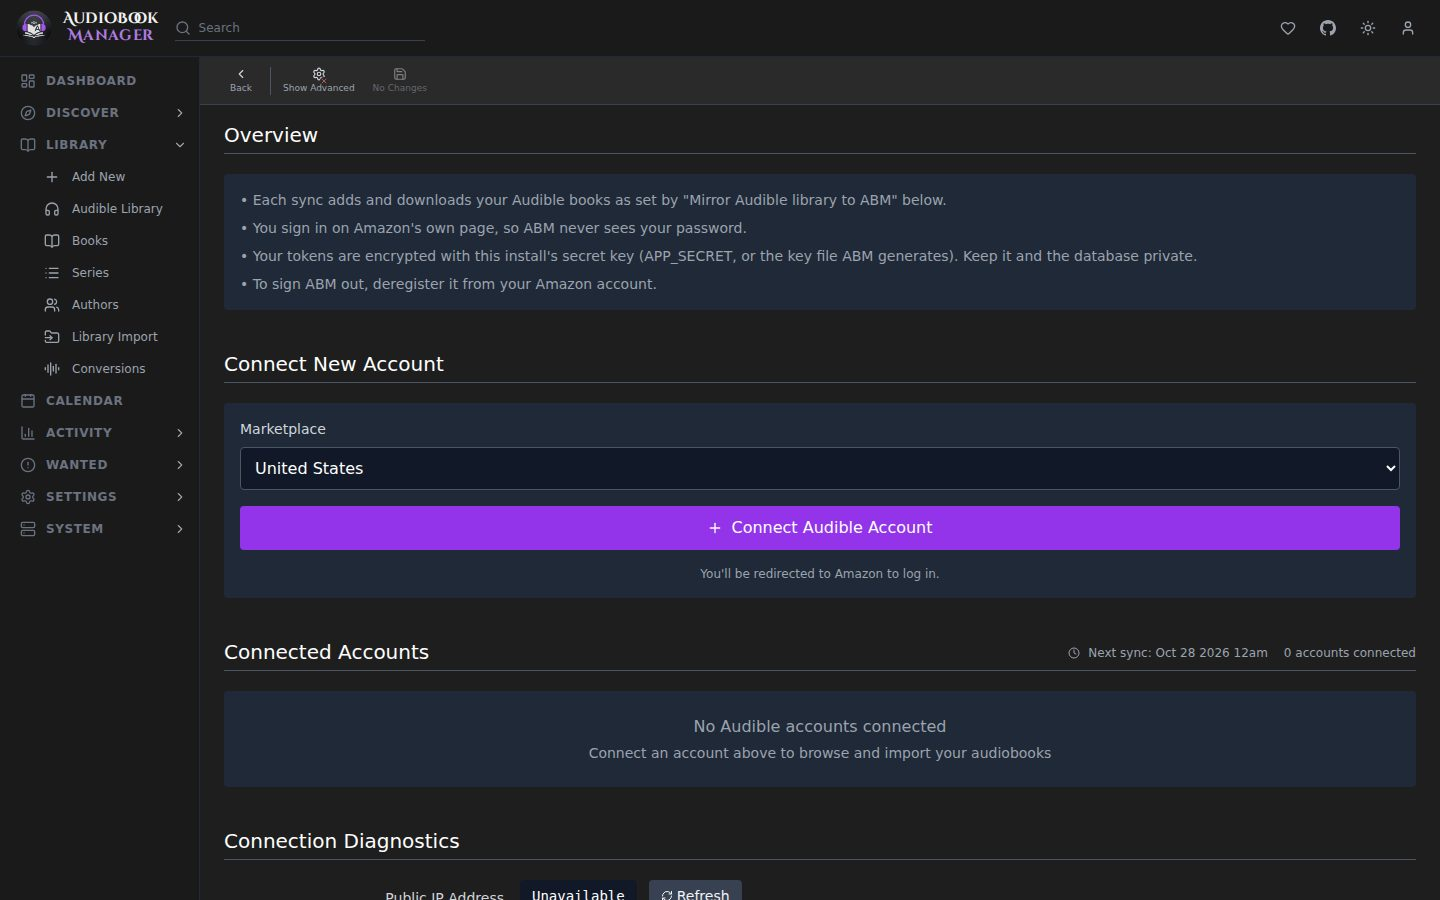
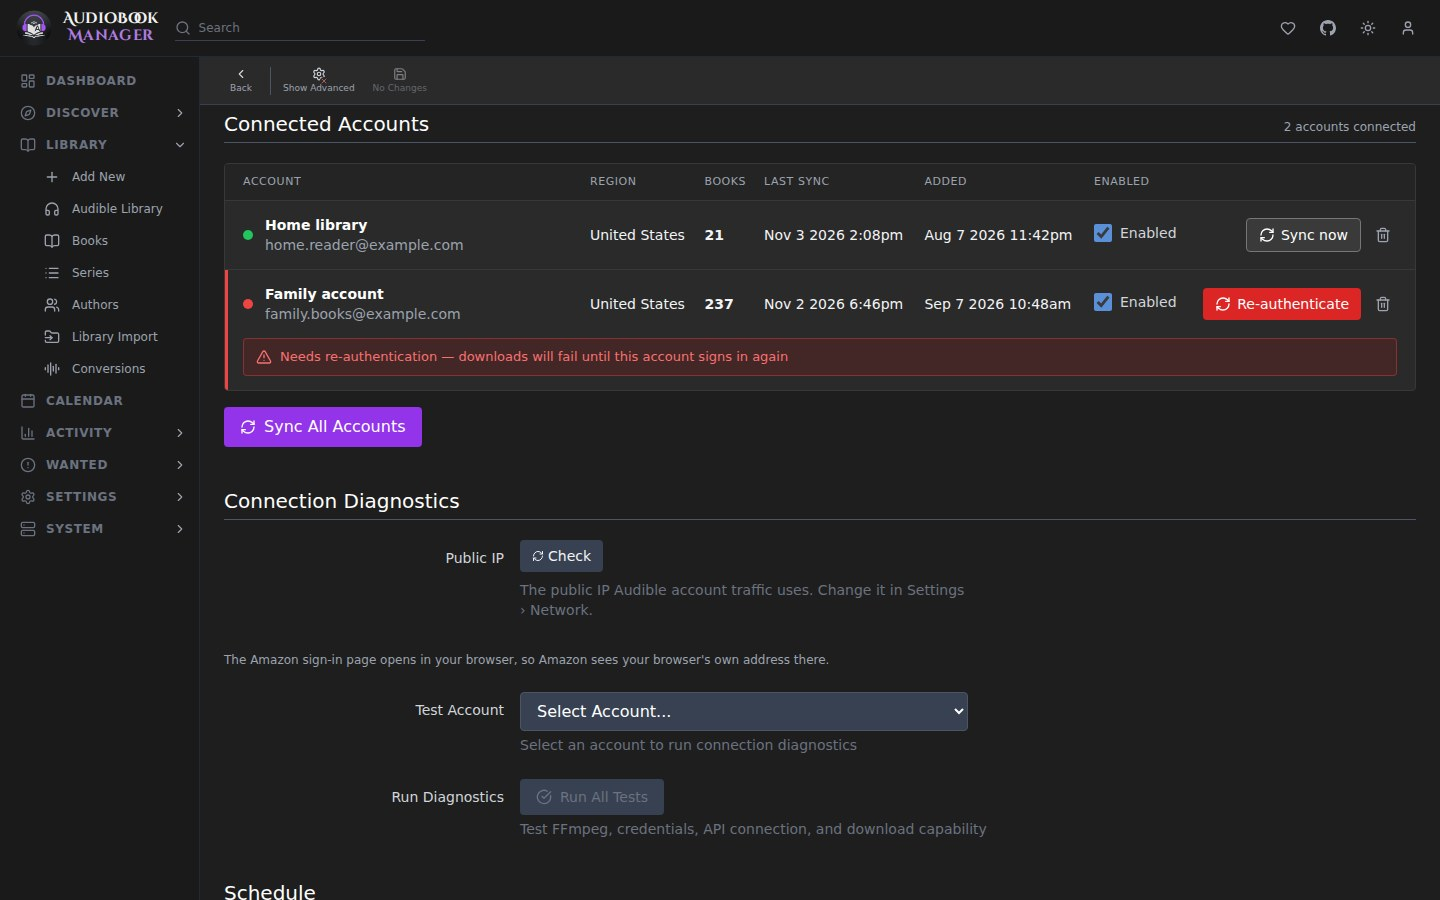
describe the audible accounts table with an enabled checkbox instead of cards

diff --git a/src/content/docs/settings/audible.md b/src/content/docs/settings/audible.md
@@ -13,7 +13,9 @@ The page opens with a short Overview. Each sync adds and downloads your Audible 
 
 ## Accounts
 
-Connecting an account takes a **Marketplace**, a **Display Name** and the **Redirect URL** that Amazon sends back after you sign in. Each account keeps its own library. The redirect URL is checked strictly: https, the exact sign-in host, no port, no username or password. See [Signing in](/audible/#signing-in). Under **Connected Accounts**, every account has an **Enabled** switch and a **Sync now** button. Turning Enabled off pauses the account without signing it out, and it shows as Disabled. Sync now syncs only that account and is greyed out while the account is disabled or a sync is running. A failed save, sign-in step or sync shows the reason in a toast. If an account needs to sign in again, sign in on the same account instead of deleting it. Deleting drops its library and removes its device from Audible.
+Connecting an account takes a **Marketplace**, a **Display Name** and the **Redirect URL** that Amazon sends back after you sign in. Each account keeps its own library. The redirect URL is checked strictly: https, the exact sign-in host, no port, no username or password. See [Signing in](/audible/#signing-in). A failed save, sign-in step or sync shows the reason in a toast. If an account needs to sign in again, sign in on the same account instead of deleting it. Deleting drops its library and removes its device from Audible.
+
+Connected accounts are listed in one table with a column each for the account name and email, region, book count, last sync, date added and an **Enabled** checkbox. Turning Enabled off pauses the account without signing it out, and it shows as Disabled. Each row has **Sync now**, which syncs only that account and is unavailable while the account is disabled or a sync is running, and a button to disconnect the account that asks you to confirm first. An account that needs to sign in again shows **Re-authenticate** in place of Sync now, with a banner explaining why. On a phone each account is its own card, and Enabled is a switch.
 
 ## Schedule
 
